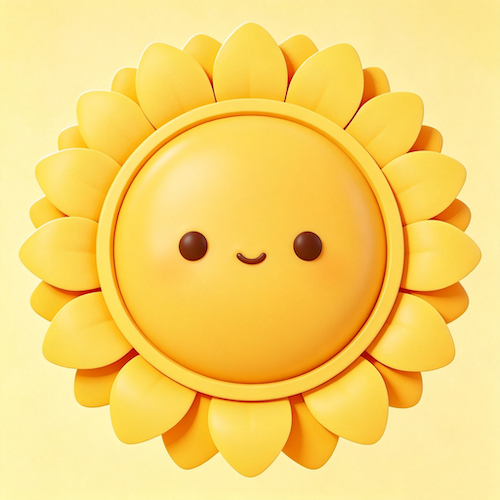
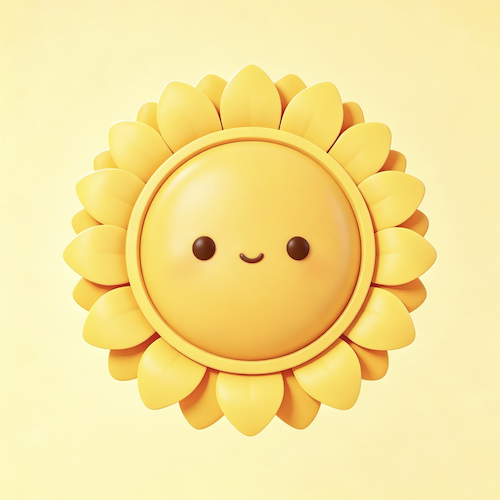
更新向日葵图标(脸盘缩小)

diff --git a/service-worker.js b/service-worker.js
@@ -2,7 +2,7 @@
  * Service Worker - 离线缓存 + Push 推送接收
  * ===================================================================== */
 
-const CACHE_VERSION = 'amanda-tasks-v1.6-encrypted';
+const CACHE_VERSION = 'amanda-tasks-v1.7-icon';
 const CORE_FILES = [
   './',
   './index.html',
